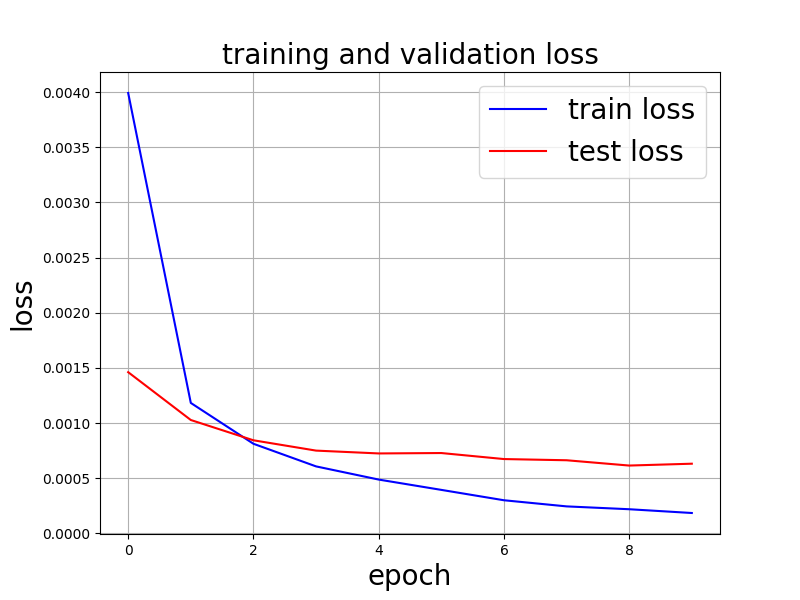
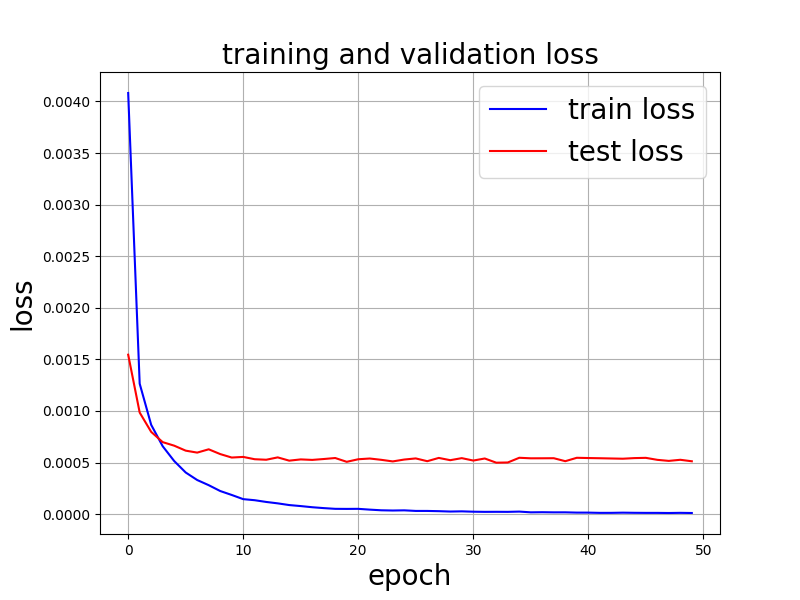
add fine-tuning

diff --git a/fine_tuning.py b/fine_tuning.py
@@ -1,0 +1,115 @@
+import torch
+import torch.nn as nn
+import torch.nn.functional as F
+import torch.optim as optim
+import torchvision
+import torchvision.transforms as transforms
+import numpy as np
+import matplotlib.pyplot as plt
+from tqdm import tqdm
+from torchvision.datasets import ImageFolder
+
+import timm
+
+
+def train(model, train_loader, criterion, device):
+    train_loss = 0.0
+    num_train = 0
+    
+    for param in model.parameters():
+        param.requires_grad = False  # すべての層を凍結
+
+    model.fc = nn.Linear(512, 10)
+    model.fc.to(device)
+    for param in model.fc.parameters():
+        param.requires_grad = True
+
+    optimizer = optim.Adam(model.fc.parameters(), lr=0.001)
+
+    # model 学習モードに設定
+    model.train()
+    # model.eval()
+
+    for images, labels in tqdm(train_loader):
+        # batch数を累積
+        num_train += len(labels)
+        
+        # viewで1次元配列に変更
+        images, labels = images.to(device), labels.to(device)
+        optimizer.zero_grad() # 勾配をリセット
+        outputs = model(images) # 推論
+        loss = criterion(outputs, labels) # lossを計算
+        loss.backward() # 誤差逆伝播
+        optimizer.step()  # パラメータ更新
+        train_loss += loss.item() # lossを累積
+        
+    train_loss = train_loss/num_train
+    return train_loss
+
+
+def valid(model, valid_loader, criterion, device):
+    valid_loss = 0.0
+    num_valid = 0
+
+    model.eval()
+
+    # 評価の際に勾配を計算しないようにする
+    with torch.no_grad():
+        for images, labels in valid_loader:
+            num_valid += len(labels)
+            images, labels = images.to(device), labels.to(device)
+            outputs = model(images)
+            loss = criterion(outputs, labels)
+            valid_loss += loss.item()
+            
+        valid_loss = valid_loss/num_valid
+
+    return valid_loss
+
+
+
+def fine_tuning(model, train_loader, valid_loader, device, num_epochs):
+    train_loss_list = []
+    valid_loss_list = []
+
+    for epoch in range(num_epochs):
+        train_loss = train(model, train_loader, criterion, device=device)
+        valid_loss = valid(model, valid_loader, criterion, device=device)
+        print(f'Epoch [{epoch+1}], train_Loss : {train_loss:.5f}, val_Loss : {valid_loss:.5f}')
+        
+        train_loss_list.append(train_loss)
+        # valid_loss_list.append(valid_loss)
+    return train_loss_list, valid_loss_list
+
+
+dir_path = './cropped_img/'
+transform = transforms.Compose([transforms.ToTensor(),
+                                transforms.Grayscale(),
+                                transforms.RandomRotation(20), 
+                                transforms.Resize((28, 28)),
+                                transforms.Normalize((0.1307,), (0.3081,))])
+
+
+dataset = ImageFolder(dir_path, transform)
+train_size = int(0.8 * len(dataset))
+test_size = len(dataset) - train_size
+train_dataset, valid_dataset = torch.utils.data.random_split(dataset, [train_size, test_size])
+
+
+train_loader = torch.utils.data.DataLoader(train_dataset, batch_size=4, shuffle=True)
+valid_loader = torch.utils.data.DataLoader(valid_dataset, batch_size=4, shuffle=True)
+
+
+device = 'cuda' if torch.cuda.is_available() else 'cpu'
+# model = Net().to(device)
+# model.load_state_dict(torch.load("model_50.pt"))
+
+model = timm.create_model('resnet18', num_classes=10, in_chans=1).to(device)
+model.load_state_dict(torch.load("resnet18.pt"))
+
+criterion = nn.CrossEntropyLoss()
+
+num_epochs = 20
+fine_tuning(model, train_loader, valid_loader, device, num_epochs)
+
+torch.save(model.state_dict(), "fine_tuned_model.pt")

diff --git a/train.py b/train.py
@@ -10,6 +10,7 @@ import matplotlib.pyplot as plt
 from tqdm import tqdm
 import timm
 import umap
+from torchvision.datasets import ImageFolder
 
 from model import Net
 
@@ -23,7 +24,6 @@ def setup_all_seed(seed=0):
 
 
 def train_model(model, train_loader, criterion, optimizer, device):
-    # 1epoch training 
     train_loss = 0.0
     num_train = 0
 
@@ -47,7 +47,7 @@ def train_model(model, train_loader, criterion, optimizer, device):
     return train_loss
 
 
-def valid_model(model, valid_loader, criterion, optimizer, device):
+def valid_model(model, valid_loader, criterion, device):
     # 評価用のコード
     valid_loss = 0.0
     num_valid = 0
@@ -177,7 +177,7 @@ criterion = nn.CrossEntropyLoss()
 # 最適化手法を設定
 optimizer = optim.SGD(model.parameters(), lr=0.01)
 
-num_epochs = 10
+num_epochs = 50
 train_loss_list, valid_loss_list = run(model, train_loader, valid_loader, criterion, optimizer, num_epochs, device=device)
 
 torch.save(model.state_dict(), "resnet18.pt") # モデルを保存

diff --git a/predict.py b/predict.py
@@ -6,11 +6,12 @@ import glob
 import timm
 
 device = 'cuda' if torch.cuda.is_available() else 'cpu'
-model = Net().to(device)
+# model = Net().to(device)
 # model.load_state_dict(torch.load("model_50.pt"))
 
 model = timm.create_model('resnet18', num_classes = 10, in_chans = 1).to(device)
-model.load_state_dict(torch.load("resnet18.pt"))
+# model.load_state_dict(torch.load("resnet18.pt"))
+model.load_state_dict(torch.load("fine_tuned_model.pt"))
 model.eval()
 
 
